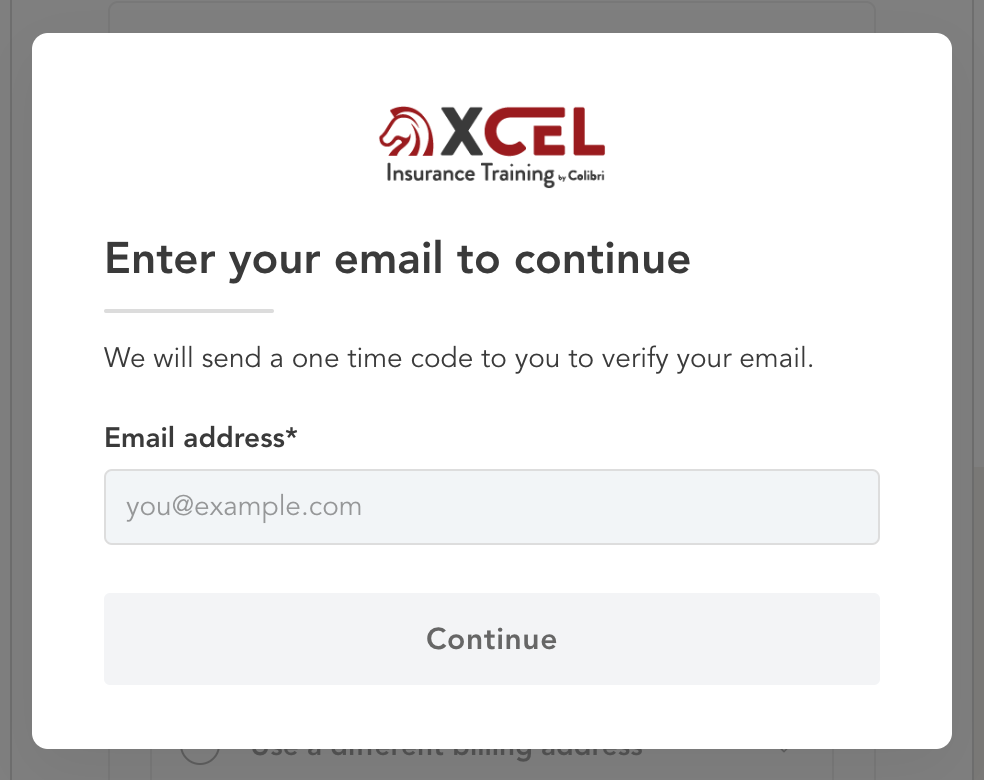
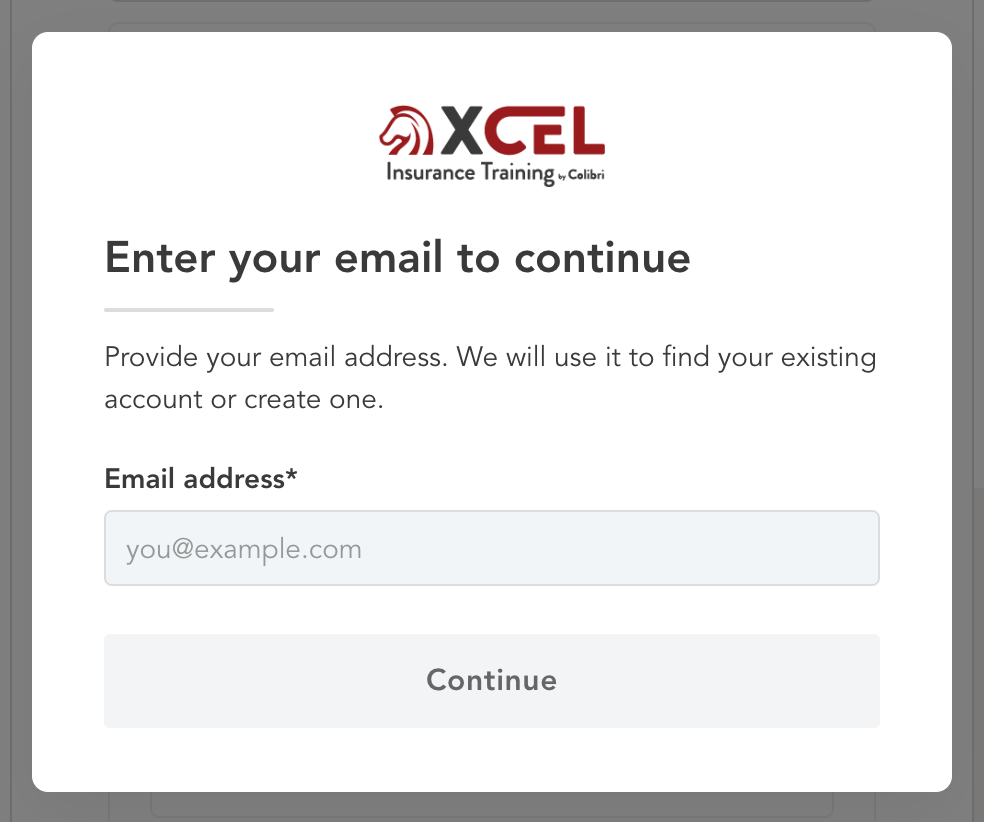
feat(invite-v3): one line on Enter your email to continue for every flow
"Provide your email address. We will use it to find your existing account
or create one." on QR code, Direct Email and B2C alike — the account is
only known after Continue. Handoff question marked Decided; screenshots
re-shot.

diff --git a/src/data/handoffs/xcel-invite-v3-checkout-modals.ts b/src/data/handoffs/xcel-invite-v3-checkout-modals.ts
@@ -24,7 +24,7 @@ const feature: PrototypeFeature = {
   devStatus: 'not-ready',
   surface: 'invite',
   owner: 'Afsana',
-  lastUpdated: '2026-11-13T14:39:21Z',
+  lastUpdated: '2026-11-13T16:54:58Z',
   accent: 'gold',
   icon: 'flag',
   brands: ['xcel'],
@@ -82,7 +82,7 @@ const feature: PrototypeFeature = {
         tabLabel: 'Enter your email',
         location: 'Over the checkout, on every flow except Direct Email with an Atlas account (that one opens on Log in to continue). src/components/e2e/VerifyEmailModalV3.tsx — the email step.',
         summary:
-          'The XCEL logo, "Enter your email to continue", a line under it, one email field and Continue. The email decides what comes next: Log in to continue if it has an Atlas account, the one-time code if it does not. Where the code comes next the line reads "We will send a one time code to you to verify your email."; on the Has Atlas flows it reads "Provide your email address. We use it to find or create your account." No code is sent until Continue.',
+          'The XCEL logo, "Enter your email to continue", a line under it, one email field and Continue. The email decides what comes next: Log in to continue if it has an Atlas account, the one-time code if it does not. The line reads "Provide your email address. We will use it to find your existing account or create one." on every flow, B2B2C and B2C, whatever the account turns out to be. No code is sent until Continue.',
         variants: [
           { name: 'Empty', when: 'On open. Continue is off.' },
           { name: 'Valid email', when: 'The field holds something shaped like an email address. Continue turns on.' },
@@ -526,9 +526,8 @@ const feature: PrototypeFeature = {
         },
         {
           question: 'Does Enter your email to continue promise a code before the email is known?',
-          decision: 'Open. In the prototype each flow already knows whether the email has an Atlas account, so the no-Atlas flows say "We will send a one time code to you to verify your email." and the Has Atlas flows keep "Provide your email address. We use it to find or create your account." In the product the account is only found after Continue, except on Direct Email. One line has to cover both outcomes, or the line changes once the email is checked.',
-          status: 'Needs weigh-in',
-          owner: 'Design and Engineering',
+          decision: 'No. Every flow — QR code, Direct Email and B2C — says "Provide your email address. We will use it to find your existing account or create one." (Afsana, 2026-11-13). In the product the account is only found after Continue, so the line has to hold for both outcomes; for a few hours the no-Atlas flows said "We will send a one time code to you to verify your email.", which promised a code to a learner who might turn out to have Atlas.',
+          status: 'Decided',
         },
         {
           question: 'Where does Reset password take the learner?',

diff --git a/src/test/InviteFlowV3Screens.test.tsx b/src/test/InviteFlowV3Screens.test.tsx
@@ -145,7 +145,7 @@ describe('Invite Flow V3 — the Direct Email invitation', () => {
     /* No code goes out until the learner says where (2026-11-13). */
     expect(screen.queryByRole('dialog', { name: 'Enter your one-time code' })).not.toBeInTheDocument()
     const ask = screen.getByRole('dialog', { name: 'Enter your email to continue' })
-    expect(ask).toHaveAccessibleDescription('We will send a one time code to you to verify your email.')
+    expect(ask).toHaveAccessibleDescription('Provide your email address. We will use it to find your existing account or create one.')
     /* Filled with the invitation's address. */
     expect(within(ask).getByLabelText(/Email address/)).toHaveValue(E2E_LEARNER_EMAIL)
     await userEvent.click(within(ask).getByRole('button', { name: 'Continue' }))
@@ -201,10 +201,28 @@ describe('Invite Flow V3 — the Direct Email invitation', () => {
 })
 
 describe('Invite Flow V3 — the email check', () => {
+  it('gives every flow the same line on the email step, whatever the account', () => {
+    const b2c = 'invite-flow-version:v3,invite-v3-model:b2c,invite-v3-flow-b2c:xcel-signed-out'
+    for (const ff of [
+      `${V3_B2B},invite-v3-flow-b2b:qr-net-new`,
+      `${V3_B2B},invite-v3-flow-b2b:qr-ocd`,
+      `${V3_B2B},invite-v3-flow-b2b:qr-atlas-login`,
+      `invite-flow-version:v3,invite-v3-model:b2b,invite-v3-flow-b2b:direct-email,invite-v3-email-account:no-atlas`,
+      `${b2c},invite-v3-email-account:no-atlas,partner-code-ask:modal&partner=no`,
+      `${b2c},invite-v3-email-account:atlas,partner-code-ask:modal&partner=no`,
+    ]) {
+      const { unmount } = renderAt(CHECKOUT, ff)
+      expect(screen.getByRole('dialog', { name: 'Enter your email to continue' })).toHaveAccessibleDescription(
+        'Provide your email address. We will use it to find your existing account or create one.',
+      )
+      unmount()
+    }
+  })
+
   it('asks for the email only, and keeps Continue off until it is an address', async () => {
     renderAt(CHECKOUT, `${V3_B2B},invite-v3-flow-b2b:qr-net-new`)
     const dialog = screen.getByRole('dialog', { name: 'Enter your email to continue' })
-    expect(dialog).toHaveAccessibleDescription('We will send a one time code to you to verify your email.')
+    expect(dialog).toHaveAccessibleDescription('Provide your email address. We will use it to find your existing account or create one.')
     expect(screen.queryByLabelText(/First name/)).not.toBeInTheDocument()
     /* The checkout behind says nothing about an address nobody has given yet. */
     expect(screen.queryByDisplayValue(/@/)).not.toBeInTheDocument()

diff --git a/src/components/e2e/VerifyEmailModalV3.tsx b/src/components/e2e/VerifyEmailModalV3.tsx
@@ -137,11 +137,9 @@ export function VerifyEmailModalV3({
               </h2>
               <div aria-hidden style={RULE} />
               <p id="verify-email-lead" style={LEAD}>
-                {/* No Atlas: the code is what comes next, so say so
-                    (2026-11-13, Afsana). */}
-                {second === 'code'
-                  ? 'We will send a one time code to you to verify your email.'
-                  : 'Provide your email address. We use it to find or create your account.'}
+                {/* One line on every flow, whatever the account turns out to
+                    be — it is only checked after Continue (2026-11-13, Afsana). */}
+                Provide your email address. We will use it to find your existing account or create one.
               </p>
             </div>
 
